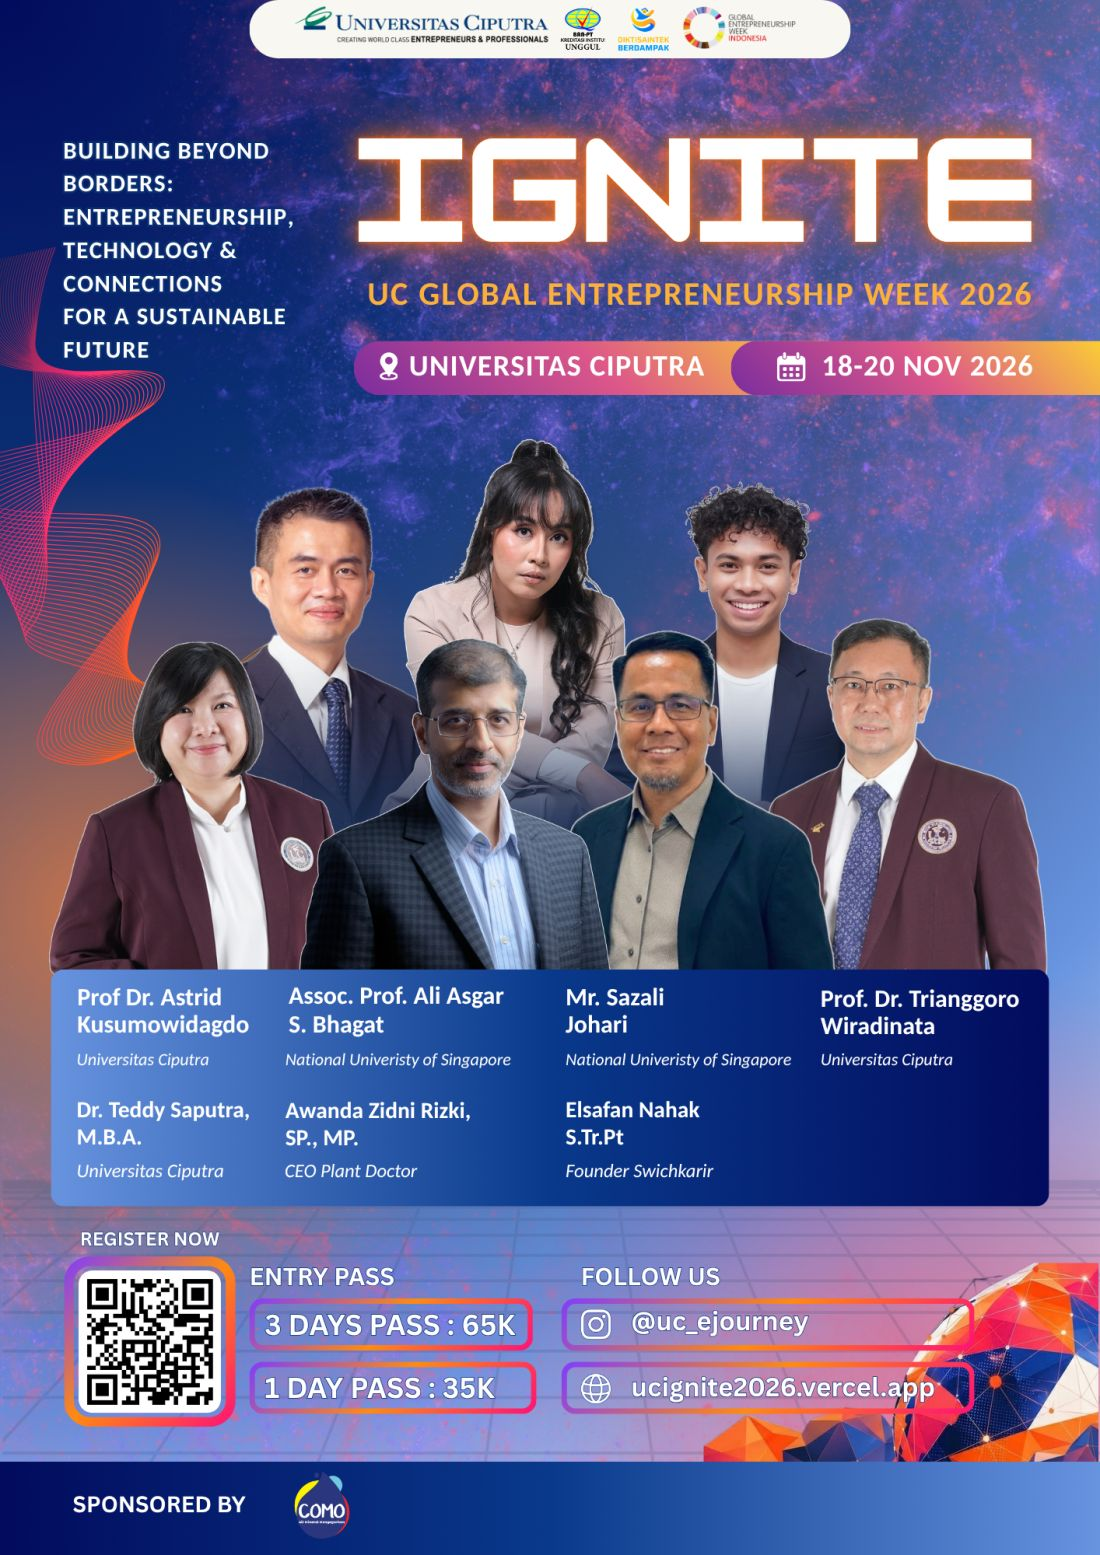
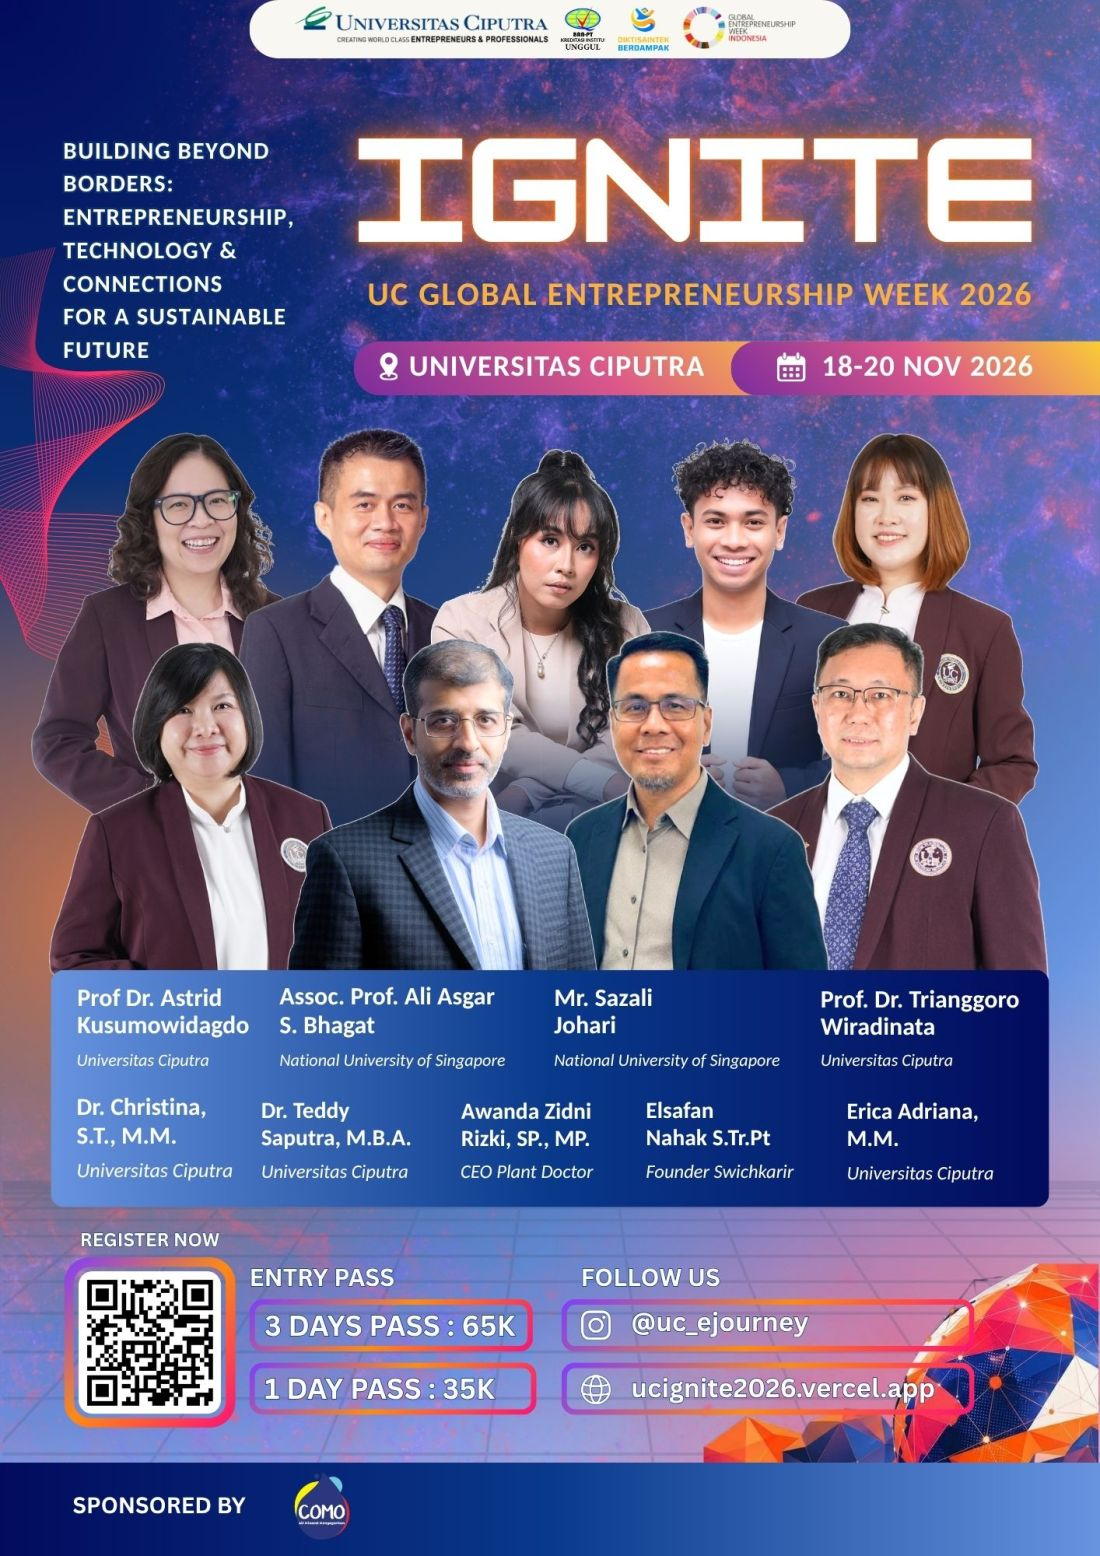
Add schedule, program overview and individual speaker cards
Content comes from the shared Google Drive folders:
- Speakers: 9 speakers from the final poster, shown as cards with their
  own photos (from 'Item designs') and titles. Christina and Erica share
  one card because they present one session together.
- Schedule: public 3-day rundown based on the Mini Booklet and the
  operational rundowns.
- About: key numbers (2,000+ participants, 50+ tenants, 5 countries)
  and the 4 main programs.
- Poster: replaced with Poster All Final.

Claude-Session: https://claude.ai/code/session_015nBP8o2ZN7LQo363rANfhd

diff --git a/src/data/event.ts b/src/data/event.ts
@@ -16,32 +16,86 @@ export const event = {
   site: "ucignite2026.vercel.app",
 };
 
-export const pillars = [
+// Numbers from the UC Ignite Mini Booklet.
+export const stats = [
+  { value: "2,000+", label: "Participants" },
+  { value: "3", label: "Days" },
+  { value: "50+", label: "Bazaar tenants" },
+  { value: "5", label: "Countries at IBCC" },
+];
+
+export const programs = [
   {
-    title: "Entrepreneurship",
-    text: "Learn from founders and academics how ideas become ventures that last.",
+    title: "Global Stage",
+    days: "Day 1",
+    text: "Keynote and talkshow with the leaders of NUS's MSc in Venture Creation.",
     icon: "M12 2l2.4 4.9 5.4.8-3.9 3.8.9 5.4L12 14.4 7.2 16.9l.9-5.4L4.2 7.7l5.4-.8z",
   },
   {
-    title: "Technology",
-    text: "See how technology helps businesses grow and solve real problems.",
+    title: "UC IBCC",
+    days: "Day 2",
+    text: "International Business Case Competition with teams from 5 countries.",
+    icon: "M8 21h8M12 17v4M7 4h10v5a5 5 0 0 1-10 0zM7 6H4a3 3 0 0 0 3 4M17 6h3a3 3 0 0 1-3 4",
+  },
+  {
+    title: "Parallel Insight Sessions",
+    days: "Day 2 & 3",
+    text: "Talks and hands-on workshops on technology, sustainable innovation and entrepreneurship.",
     icon: "M4 5h16v10H4zM2 19h20M9 15v4M15 15v4",
   },
   {
-    title: "Connections",
-    text: "Meet speakers, students and partners from Indonesia and beyond.",
-    icon: "M7 8a3 3 0 1 0 0-.01M17 8a3 3 0 1 0 0-.01M2 20c0-3 2.5-5 5-5s5 2 5 5M12 20c0-3 2.5-5 5-5s5 2 5 5",
+    title: "Bazaar & Entertainment",
+    days: "Day 1 & 2",
+    text: "50+ tenants from student and community businesses, plus student performances on stage.",
+    icon: "M3 9l2-5h14l2 5M3 9h18v11H3zM9 20v-6h6v6",
   },
 ];
 
+// Photos come from the "Item designs" folder on Google Drive.
 export const speakers = [
-  { name: "Prof. Dr. Astrid Kusumowidagdo", org: "Universitas Ciputra" },
-  { name: "Assoc. Prof. Ali Asgar S. Bhagat", org: "National University of Singapore" },
-  { name: "Mr. Sazali Johari", org: "National University of Singapore" },
-  { name: "Prof. Dr. Trianggoro Wiradinata", org: "Universitas Ciputra" },
-  { name: "Dr. Teddy Saputra, M.B.A.", org: "Universitas Ciputra" },
-  { name: "Awanda Zidni Rizki, SP., MP.", org: "CEO, Plant Doctor" },
-  { name: "Elsafan Nahak, S.Tr.Pt", org: "Founder, Swichkarir" },
+  { photo: "astrid", name: "Prof. Dr. Astrid Kusumowidagdo", role: "Vice Rector for Entrepreneurship, Academic, and Research, Universitas Ciputra" },
+  { photo: "ali", name: "Assoc. Prof. Ali Asgar S. Bhagat", role: "Academic Director, MSc in Venture Creation, National University of Singapore" },
+  { photo: "sazali", name: "Mr. Sazali Johari", role: "Deputy Director, MSc in Venture Creation, National University of Singapore" },
+  { photo: "trianggoro", name: "Prof. Dr. Trianggoro Wiradinata", role: "Vice Rector for Student Affairs, Employability, and Industry Collaboration, Universitas Ciputra" },
+  { photo: "teddy", name: "Dr. Teddy Saputra, M.B.A.", role: "Center Director UCFBC, Universitas Ciputra" },
+  { photo: "awanda", name: "Awanda Zidni Rizki, SP., MP.", role: "CEO of Plant Doctor, Founder of Satu Garis Waktu" },
+  { photo: "elsafan", name: "Elsafan Nahak, S.Tr.Pt", role: "Founder of Switchkarir, Public Speaking Mentor" },
+  { photo: "christina-erica", name: "Dr. Christina, S.T., M.M. & Erica Adriana, S.E., M.M.", role: "Entrepreneurship Course Section Head & Entrepreneurship Course Specialist, Universitas Ciputra" },
+];
+
+// Public schedule, based on the Mini Booklet and the operational rundowns.
+export const schedule = [
+  {
+    day: "Day 1",
+    date: "Wed, 18 Nov",
+    focus: "Global Stage with NUS",
+    items: [
+      { time: "08.00 – 09.00", title: "Registration & Opening Ceremony" },
+      { time: "09.00 – 10.30", title: "Global Stage: Assoc. Prof. Ali Asgar S. Bhagat (NUS)", note: "UC students only" },
+      { time: "13.30 – 15.00", title: "Global Stage: Assoc. Prof. Ali Asgar S. Bhagat (NUS)", note: "Open to the public" },
+      { time: "08.00 – 16.00", title: "Bazaar & student performances" },
+    ],
+  },
+  {
+    day: "Day 2",
+    date: "Thu, 19 Nov",
+    focus: "IBCC & Parallel Sessions",
+    items: [
+      { time: "09.00 – 12.00", title: "UC IBCC: Business Case Competition", note: "5 countries" },
+      { time: "10.00 – 11.30", title: "Fireside session: Startup Ecosystem in Singapore", note: "Mr. Sazali Johari (NUS)" },
+      { time: "13.30 – 16.30", title: "Parallel Insight Sessions, Track A & B", note: "Family Business · Humanities · Entrepreneurial Mindset · Tech & AI · Social Innovation · Venture Lab" },
+      { time: "08.00 – 16.00", title: "Bazaar & live entertainment" },
+    ],
+  },
+  {
+    day: "Day 3",
+    date: "Fri, 20 Nov",
+    focus: "Final Sessions & Closing",
+    items: [
+      { time: "13.30 – 16.30", title: "Parallel Insight Sessions & Workshops, Track A & B", note: "Family Business · Venture Lab · Entrepreneurial Skills · Community · Tech & AI · Corporate Entrepreneurship" },
+      { time: "TBA", title: "Closing Ceremony" },
+    ],
+  },
 ];
 
 export const passes = [
